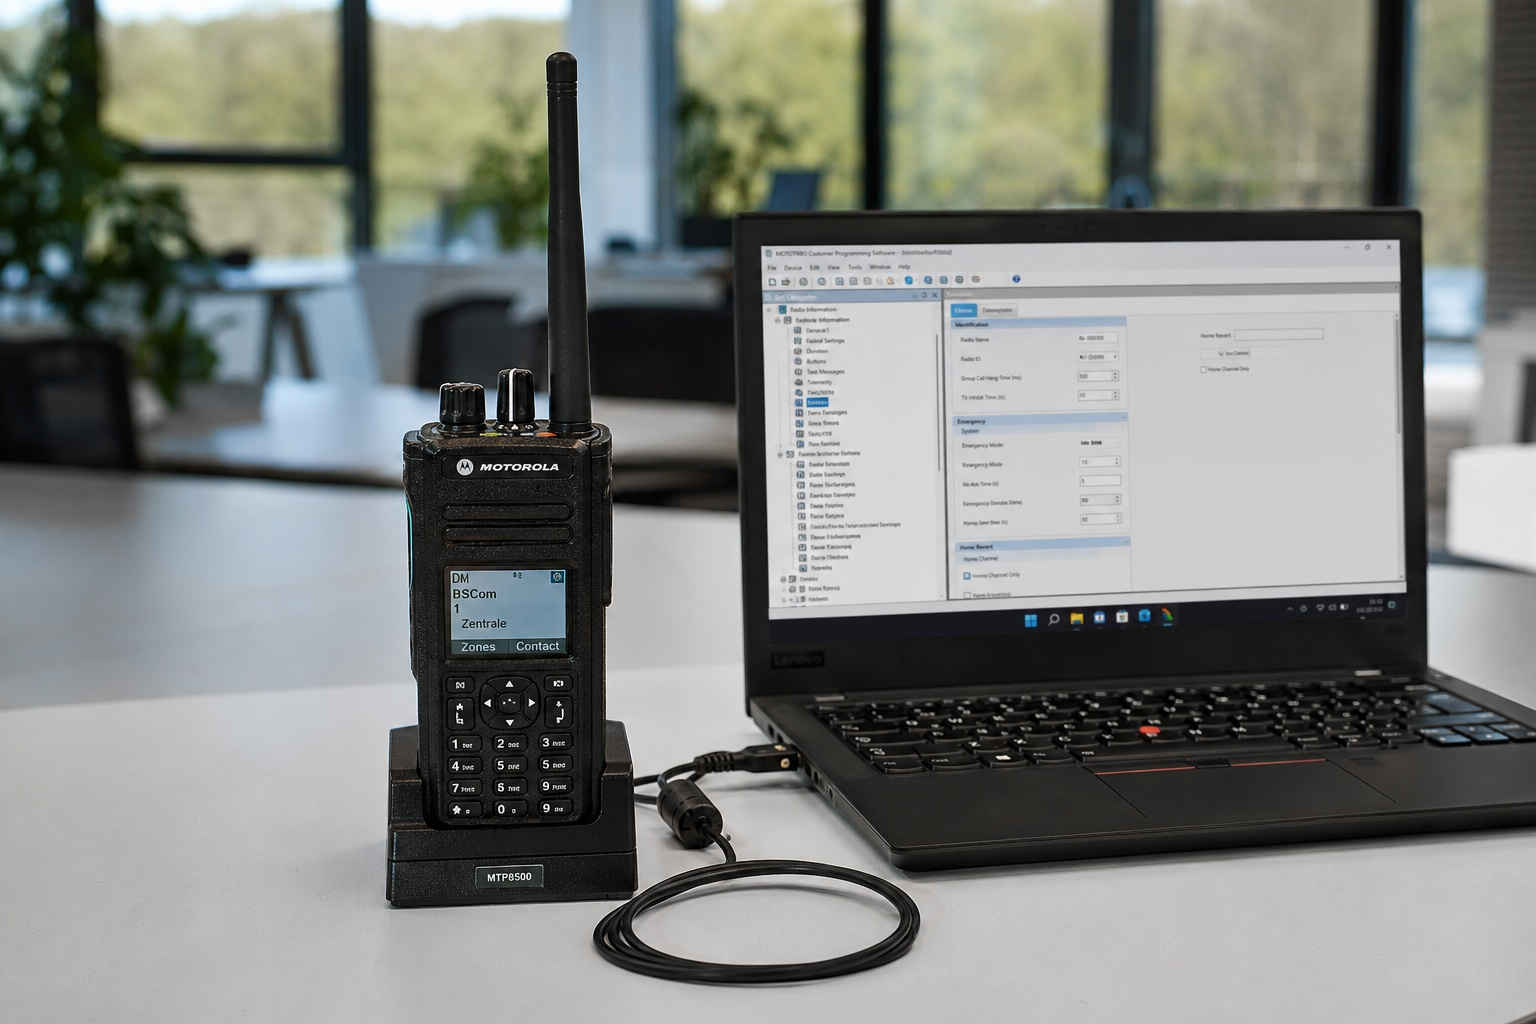
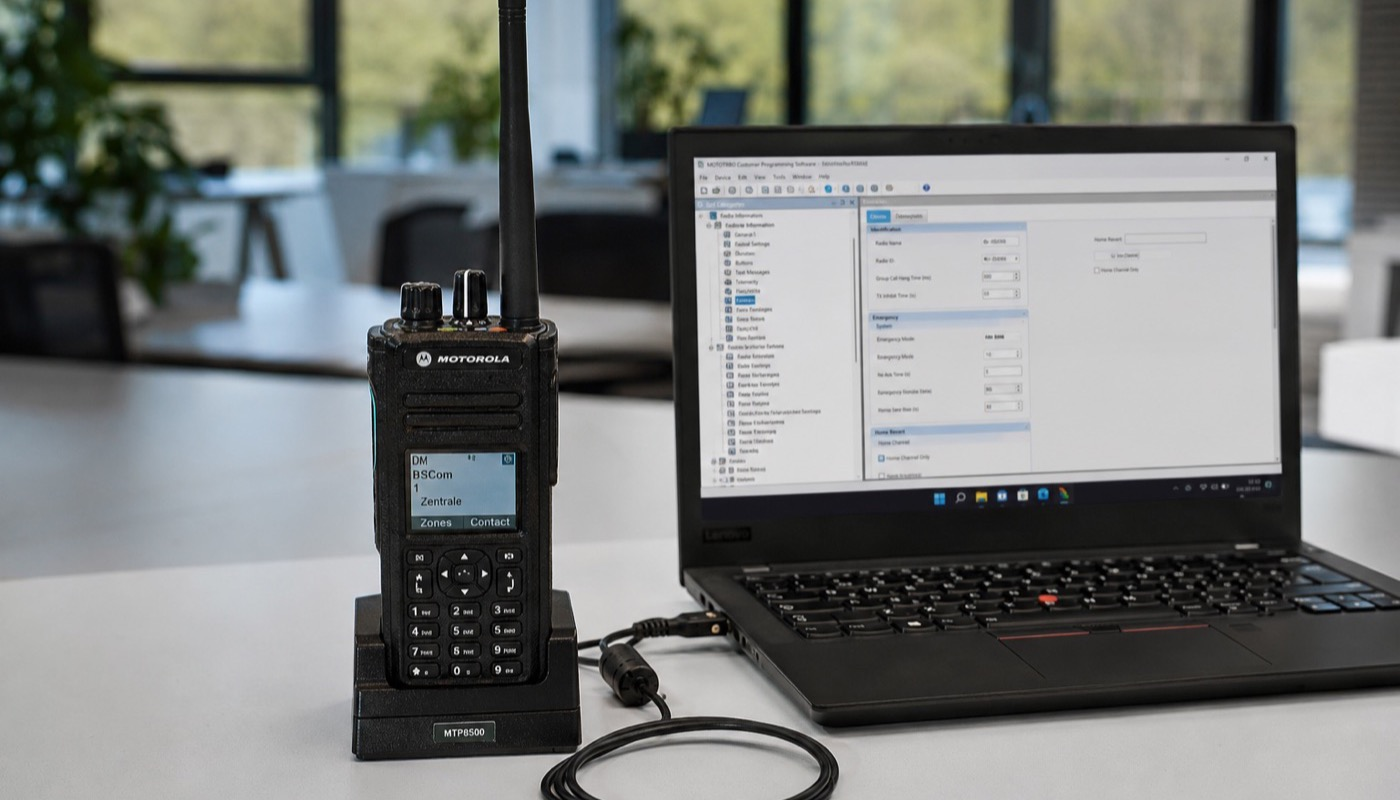
feat: Foto im Abschnitt Professionelle Geräteprogrammierung (handfunkgeraete.html)

diff --git a/handfunkgeraete.html b/handfunkgeraete.html
@@ -202,6 +202,12 @@
         <p>Korrekte Kanäle, richtige Töne, vollständige Dokumentation – auf Anhieb.</p>
       </div>
 
+      <div data-aos="fade-up">
+        <img src="assets/images/professionelle-geraeteprogrammierung.jpg"
+             alt="Motorola MTP8500 Handfunkgerät wird von BESCom mit Programmiersoftware konfiguriert"
+             class="section-photo" loading="lazy" width="1400" height="800">
+      </div>
+
       <div class="service-detail">
 
         <div data-aos="fade-right">
